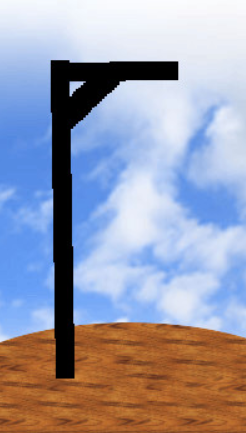
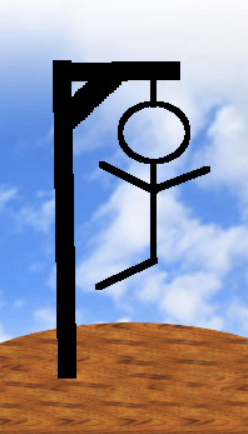
revised next photo function with template literals

diff --git a/javascript/Game.js b/javascript/Game.js
@@ -14,6 +14,8 @@ document.addEventListener("DOMContentLoaded", function(event) {
   // game is won when guessedCorrect = numberToWin
   let guessedCorrect = 0;
 
+  let word;
+
 
   class Hangman {
     constructor(word) {
@@ -23,7 +25,7 @@ document.addEventListener("DOMContentLoaded", function(event) {
     }
 
     newGame(){
-
+      word = this.word;
       numberToWin = this.wordLength;
 
     
@@ -136,14 +138,18 @@ document.addEventListener("DOMContentLoaded", function(event) {
 
 
         // if guess counter = 0, lose 
-        if (guessCounter === 0){
-          lossCounter += 1;
-          displayLossCounter();
-          alert("Out of guesses, Game Over")
+
+        weLost();
+
+        // if (guessCounter === 0){
+        //   lossCounter += 1;
+        //   displayLossCounter();
+
+        //   alert("Out of guesses, Game Over, the correct word was " + word)
           
-          startNew();
+        //   startNew();
           
-        }
+        // }
       }
 
 
@@ -190,33 +196,13 @@ document.addEventListener("DOMContentLoaded", function(event) {
   }
   
   function insertNextPhoto(){
-    if (guessCounter === 8) {
-      document.querySelector('.hangmanImage').src="images/hangman0.png"
-    }
-    if (guessCounter === 7) {
-      document.querySelector('.hangmanImage').src="images/hangman1.png"
-    }
-    if (guessCounter === 6) {
-      document.querySelector('.hangmanImage').src="images/hangman2.png"
-    }
-    if (guessCounter === 5) {
-      document.querySelector('.hangmanImage').src="images/hangman3.png"
-    }
-    if (guessCounter === 4) {
-      document.querySelector('.hangmanImage').src="images/hangman4.png"
-    }
-    if (guessCounter === 3) {
-      document.querySelector('.hangmanImage').src="images/hangman5.png"
-    }
-    if (guessCounter === 2) {
-      document.querySelector('.hangmanImage').src="images/hangman6.png"
-    }
-    if (guessCounter === 1) {
-      document.querySelector('.hangmanImage').src="images/hangman7.png"
-    }
-    if (guessCounter === 0) {
-      document.querySelector('.hangmanImage').src="images/hangman8.png"
-    }
+
+    
+    // template literals
+    // display the image currently tied to guessCounter
+    document.querySelector('.hangmanImage').src=`images/hangman${guessCounter}.png`
+    
+
   }
 
   function displayWinCounter(){
@@ -229,6 +215,22 @@ document.addEventListener("DOMContentLoaded", function(event) {
 
   function displayGuessCounter(){
     document.querySelector('.guessCounter').innerHTML = guessCounter;
+  }
+
+  function weLost() {
+
+    if (guessCounter === 0){
+          lossCounter += 1;
+          displayLossCounter();
+
+          alert("Out of guesses, Game Over, the correct word was " + word)
+          insertNextPhoto();
+
+
+          
+          startNew();
+          
+        }
   }
 
   // start or restart a new game
